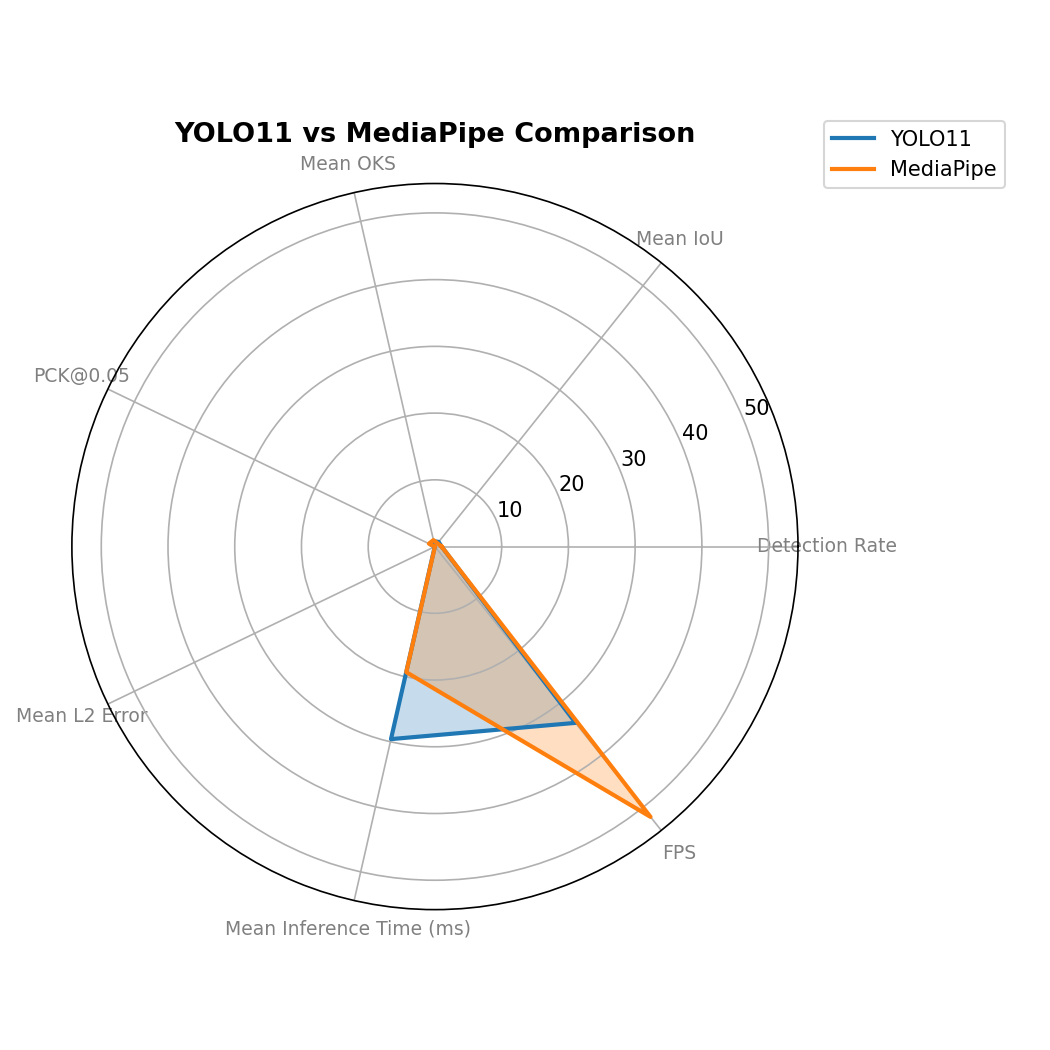
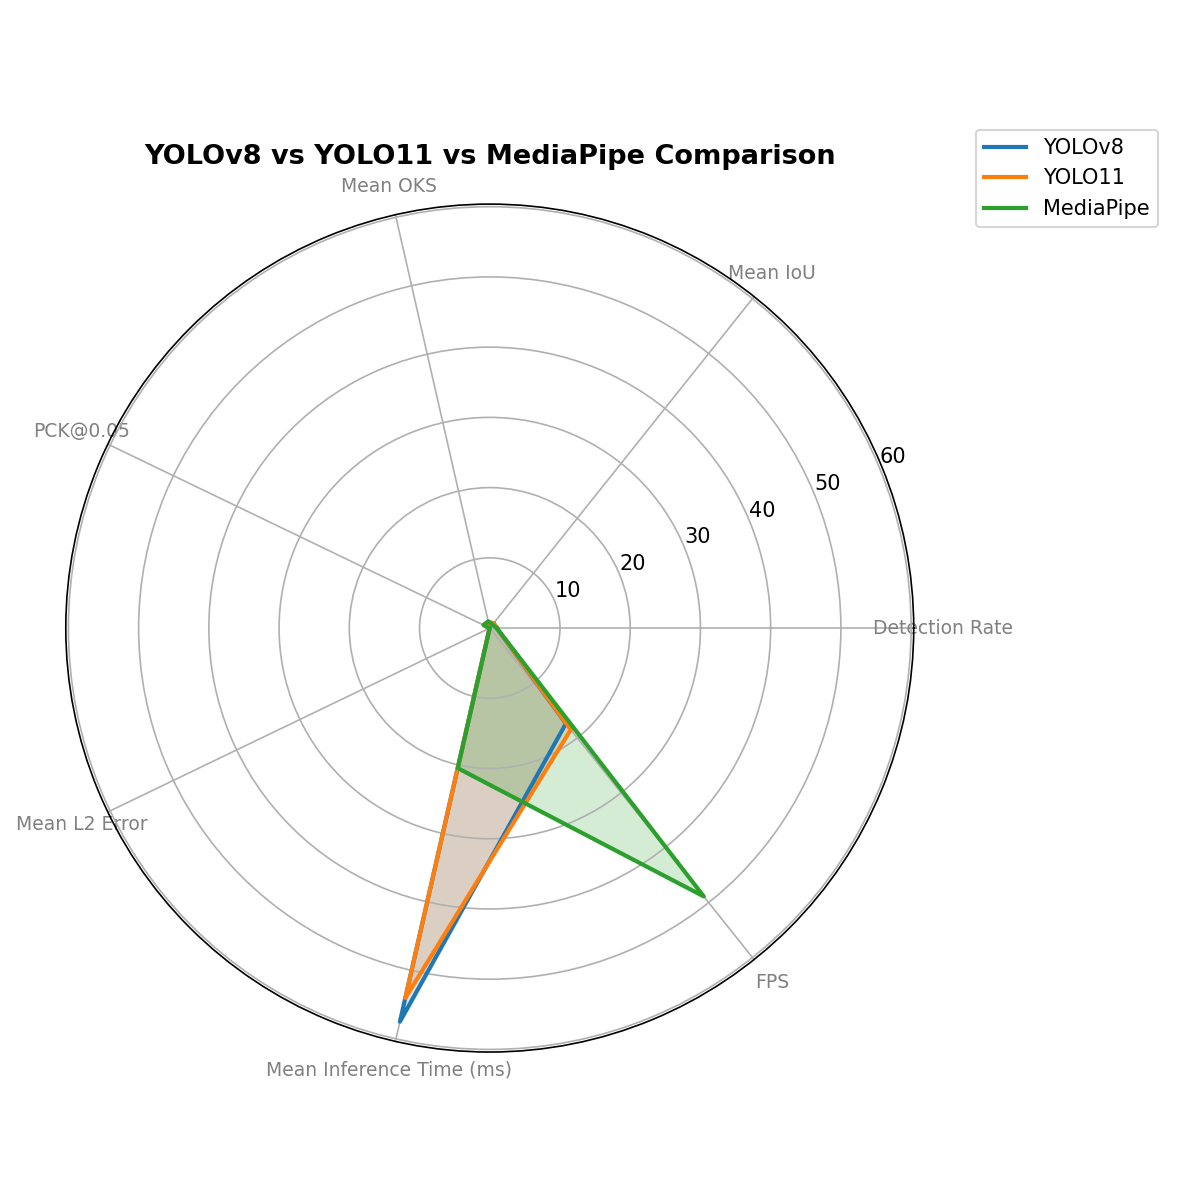
Update yolob8 evaluation

diff --git a/scripts/compare_yolo_mediapipe.py b/scripts/compare_yolo_mediapipe.py
@@ -1,7 +1,7 @@
 """
-Compare YOLO11 Pose vs MediaPipe Hands on the same validation dataset.
+Compare YOLOv8, YOLO11 Pose, and MediaPipe Hands on the same validation dataset.
 
-Evaluates both models on common metrics:
+Evaluates all three models on common metrics:
 - Detection rate
 - Average IoU
 - Mean OKS
@@ -27,9 +27,10 @@ import mediapipe as mp
 
 # ---------------- CONFIG ----------------
 BASE_DIR = Path(__file__).resolve().parent.parent
-VAL_IMAGES = BASE_DIR / "data" / "hand-keypoints" / "images" / "val"
-VAL_LABELS = BASE_DIR / "data" / "hand-keypoints" / "labels" / "val"
-YOLO_MODEL_PATH = BASE_DIR / "models" / "best.pt"
+VAL_IMAGES = BASE_DIR / "data" / "images" / "val"
+VAL_LABELS = BASE_DIR / "data" / "labels" / "val"
+YOLO8_MODEL_PATH = BASE_DIR / "models" / "best_v8.pt"
+YOLO11_MODEL_PATH = BASE_DIR / "models" / "best.pt"
 RESULTS_DIR = BASE_DIR / "results" / "comparison"
 RESULTS_DIR.mkdir(parents=True, exist_ok=True)
 
@@ -189,11 +190,12 @@ def evaluate_mediapipe(max_images=None):
     }
 
 # ---------------- COMPARISON & PLOT ----------------
-def compare_models(yolo_metrics, mp_metrics):
-    summary = {"YOLO11": yolo_metrics, "MediaPipe": mp_metrics}
+def compare_models(yolo8_metrics, yolo11_metrics, mp_metrics):
+    summary = {"YOLOv8": yolo8_metrics, "YOLO11": yolo11_metrics, "MediaPipe": mp_metrics}
 
-    metrics = list(yolo_metrics.keys())
-    yolo_vals = [yolo_metrics[m] for m in metrics]
+    metrics = list(yolo8_metrics.keys())
+    yolo8_vals = [yolo8_metrics[m] for m in metrics]
+    yolo11_vals = [yolo11_metrics[m] for m in metrics]
     mp_vals = [mp_metrics[m] for m in metrics]
 
     # Save JSON
@@ -204,19 +206,22 @@ def compare_models(yolo_metrics, mp_metrics):
 
     # Radar / spider chart
     angles = np.linspace(0, 2 * np.pi, len(metrics), endpoint=False).tolist()
-    yolo_vals += yolo_vals[:1]
+    yolo8_vals += yolo8_vals[:1]
+    yolo11_vals += yolo11_vals[:1]
     mp_vals += mp_vals[:1]
     angles += angles[:1]
 
-    plt.figure(figsize=(7, 7))
+    plt.figure(figsize=(8, 8))
     ax = plt.subplot(111, polar=True)
     plt.xticks(angles[:-1], metrics, color="grey", size=9)
-    ax.plot(angles, yolo_vals, linewidth=2, label="YOLO11")
-    ax.fill(angles, yolo_vals, alpha=0.25)
+    ax.plot(angles, yolo8_vals, linewidth=2, label="YOLOv8")
+    ax.fill(angles, yolo8_vals, alpha=0.2)
+    ax.plot(angles, yolo11_vals, linewidth=2, label="YOLO11")
+    ax.fill(angles, yolo11_vals, alpha=0.2)
     ax.plot(angles, mp_vals, linewidth=2, label="MediaPipe")
-    ax.fill(angles, mp_vals, alpha=0.25)
+    ax.fill(angles, mp_vals, alpha=0.2)
     plt.legend(loc="upper right", bbox_to_anchor=(1.3, 1.1))
-    plt.title("YOLO11 vs MediaPipe Comparison", size=13, weight="bold")
+    plt.title("YOLOv8 vs YOLO11 vs MediaPipe Comparison", size=13, weight="bold")
     plt.tight_layout()
     plt.savefig(RESULTS_DIR / "comparison_chart.png", dpi=150)
     plt.close()
@@ -224,15 +229,19 @@ def compare_models(yolo_metrics, mp_metrics):
 
 # ---------------- MAIN ----------------
 def main():
+    print("\n=== Evaluating YOLOv8 Pose ===")
+    yolo8_metrics = evaluate_yolo(YOLO8_MODEL_PATH)
+    print(json.dumps(yolo8_metrics, indent=2))
+
     print("\n=== Evaluating YOLO11 Pose ===")
-    yolo_metrics = evaluate_yolo(YOLO_MODEL_PATH)
-    print(json.dumps(yolo_metrics, indent=2))
+    yolo11_metrics = evaluate_yolo(YOLO11_MODEL_PATH)
+    print(json.dumps(yolo11_metrics, indent=2))
 
     print("\n=== Evaluating MediaPipe Hands ===")
     mp_metrics = evaluate_mediapipe()
     print(json.dumps(mp_metrics, indent=2))
 
-    compare_models(yolo_metrics, mp_metrics)
+    compare_models(yolo8_metrics, yolo11_metrics, mp_metrics)
 
 if __name__ == "__main__":
     main()
